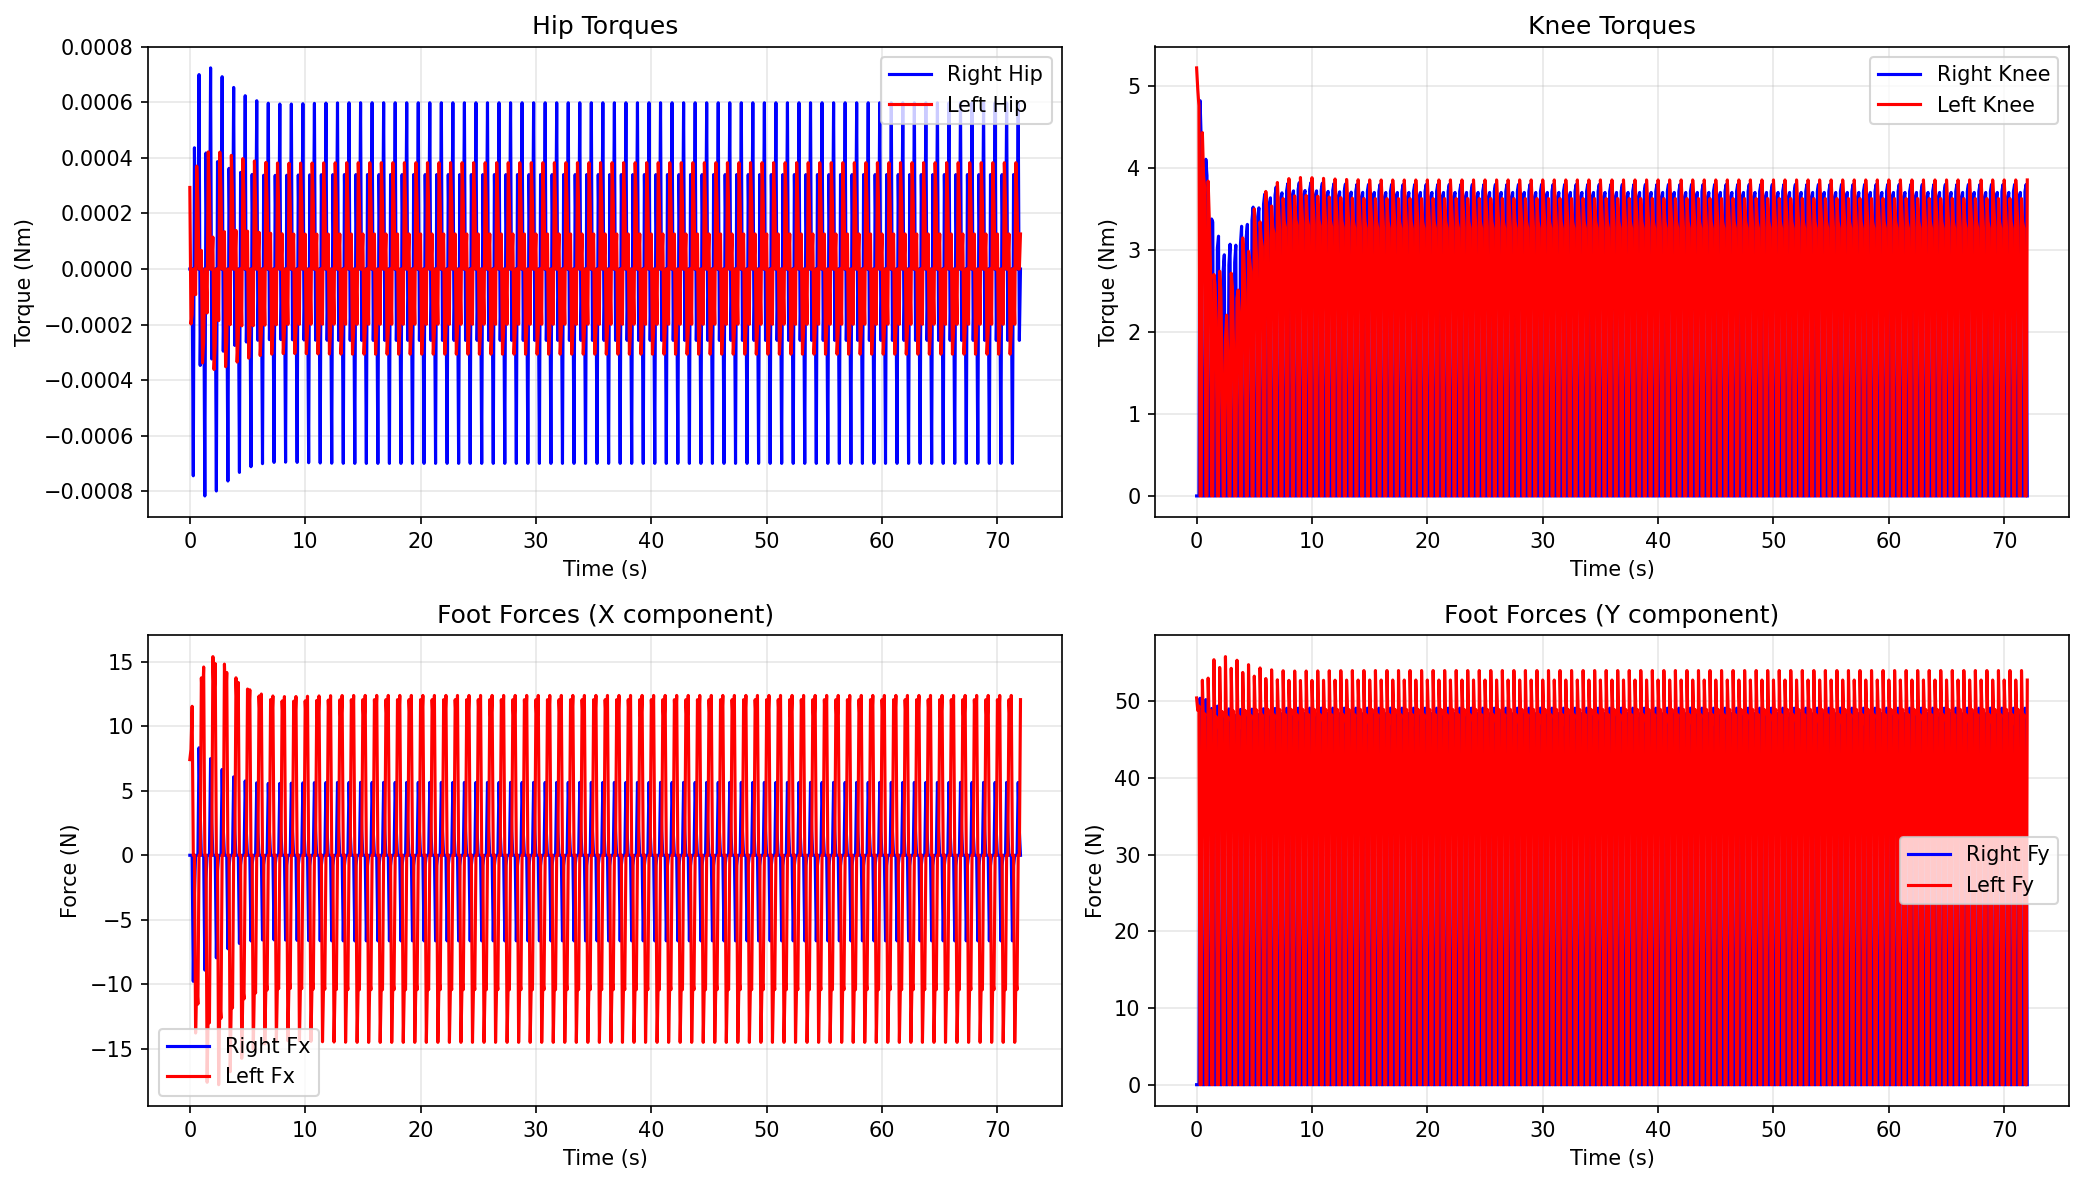
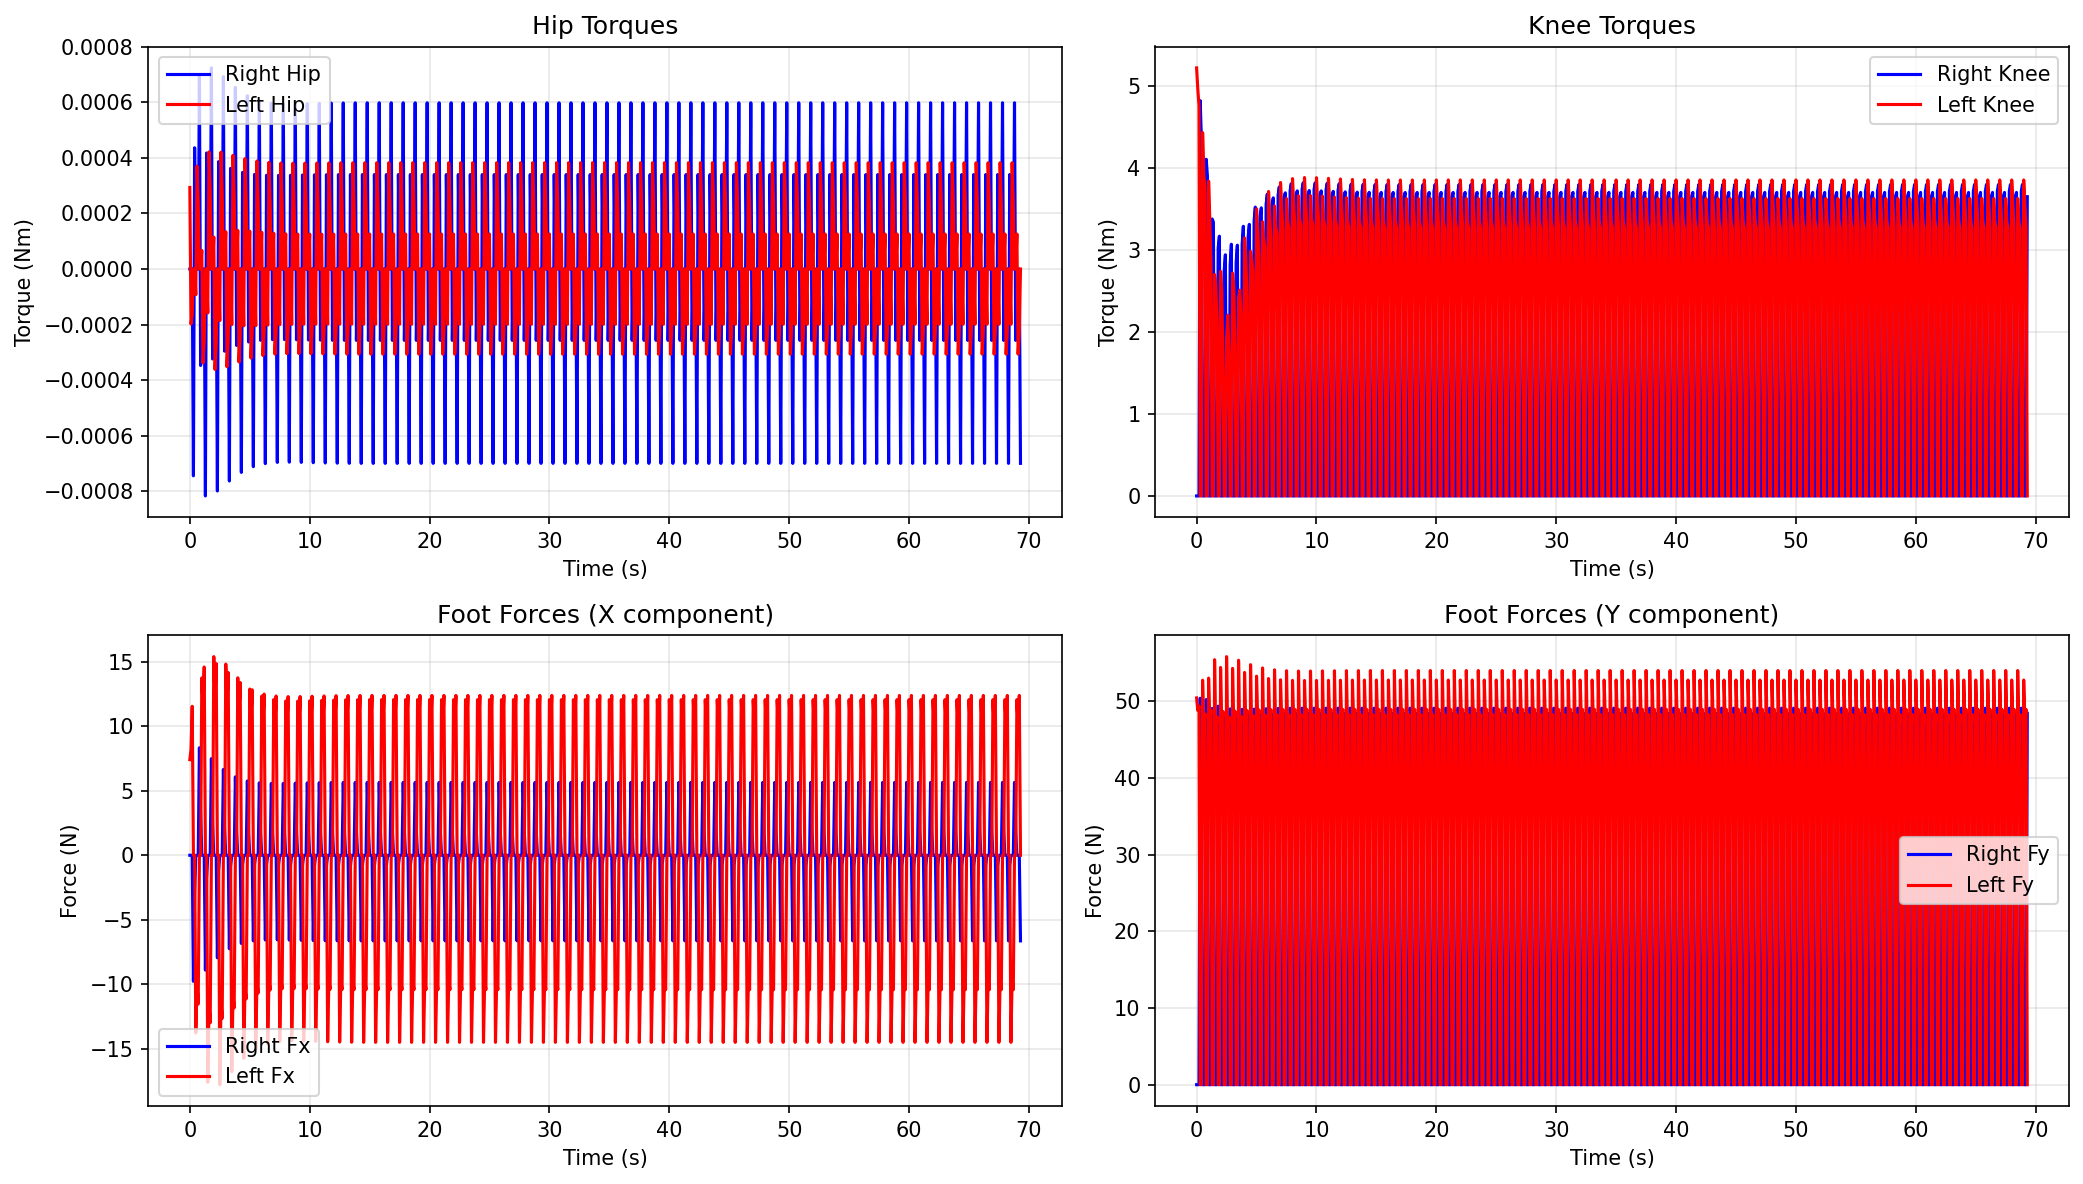
Using Jacobian to calculate torques from forces

diff --git a/plotting_utils.py b/plotting_utils.py
@@ -49,7 +49,7 @@ def inverse_kinematics_2D(com_pos, foot_pos, L_thigh, L_shank):
 
 def calculate_joint_torques(foot_force, com_pos, foot_pos, L_thigh, L_shank):
     """
-    Calculate joint torques using inverse dynamics (simplified).
+    Calculate joint torques using Jacobian transpose method: tau = J^T @ F
 
     Args:
         foot_force: [Fx, Fy] - force at foot in WORLD frame
@@ -65,29 +65,32 @@ def calculate_joint_torques(foot_force, com_pos, foot_pos, L_thigh, L_shank):
     # Get joint angles
     hip_angle, knee_angle = inverse_kinematics_2D(com_pos, foot_pos, L_thigh, L_shank)
 
-    # Transform foot position to body frame
-    dx = foot_pos[0] - com_pos[0]
-    dy = foot_pos[1] - com_pos[1]
-    theta = com_pos[2]
-    dx_body = dx * np.cos(-theta) - dy * np.sin(-theta)
-    dy_body = dx * np.sin(-theta) + dy * np.cos(-theta)
-
     # Transform forces from world frame to body frame
+    theta = com_pos[2]
     Fx_world = foot_force[0]
     Fy_world = foot_force[1]
     Fx_body = Fx_world * np.cos(-theta) - Fy_world * np.sin(-theta)
     Fy_body = Fx_world * np.sin(-theta) + Fy_world * np.cos(-theta)
 
-    # Calculate knee position in body frame
-    knee_x = L_thigh * np.sin(hip_angle)
-    knee_y = -L_thigh * np.cos(hip_angle)
+    # Calculate Jacobian: J maps joint velocities to foot velocities
+    # foot_vel = J @ [hip_dot, knee_dot]
+    # For 2D leg:
+    # foot_x = L_thigh * sin(hip) + L_shank * sin(hip + knee)
+    # foot_y = -L_thigh * cos(hip) - L_shank * cos(hip + knee)
 
-    # Torques from external forces (now using body frame forces)
-    # Hip torque = r_foot × F
-    hip_torque = dx_body * Fy_body - dy_body * Fx_body
+    # Jacobian derivatives:
+    J = np.zeros((2, 2))
+    J[0, 0] = L_thigh * np.cos(hip_angle) + L_shank * np.cos(hip_angle + knee_angle)  # dx/d(hip)
+    J[0, 1] = L_shank * np.cos(hip_angle + knee_angle)  # dx/d(knee)
+    J[1, 0] = L_thigh * np.sin(hip_angle) + L_shank * np.sin(hip_angle + knee_angle)  # dy/d(hip)
+    J[1, 1] = L_shank * np.sin(hip_angle + knee_angle)  # dy/d(knee)
 
-    # Knee torque = r_foot_from_knee × F
-    knee_torque = (dx_body - knee_x) * Fy_body - (dy_body - knee_y) * Fx_body
+    # Calculate torques: tau = J^T @ F
+    F_body = np.array([Fx_body, Fy_body])
+    torques = J.T @ F_body
+
+    hip_torque = torques[0]
+    knee_torque = torques[1]
 
     return hip_torque, knee_torque
 
